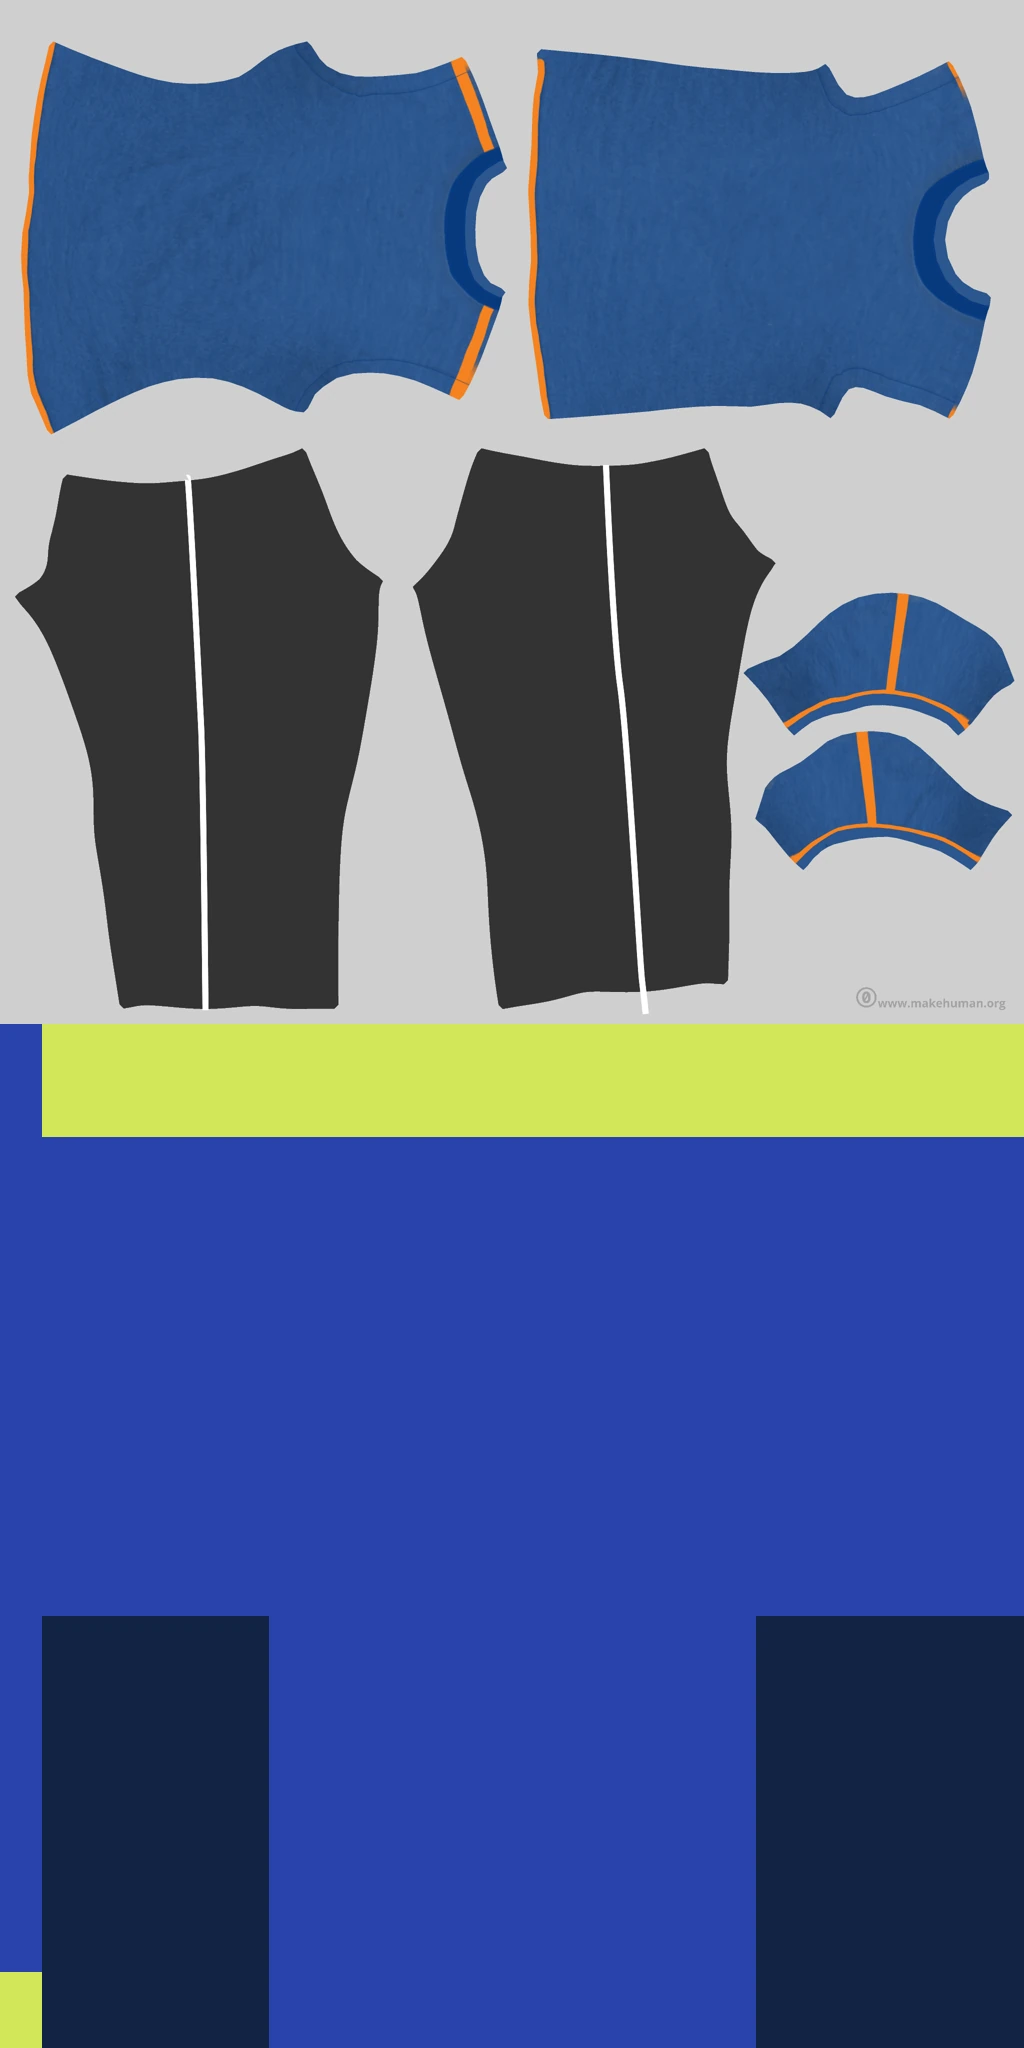
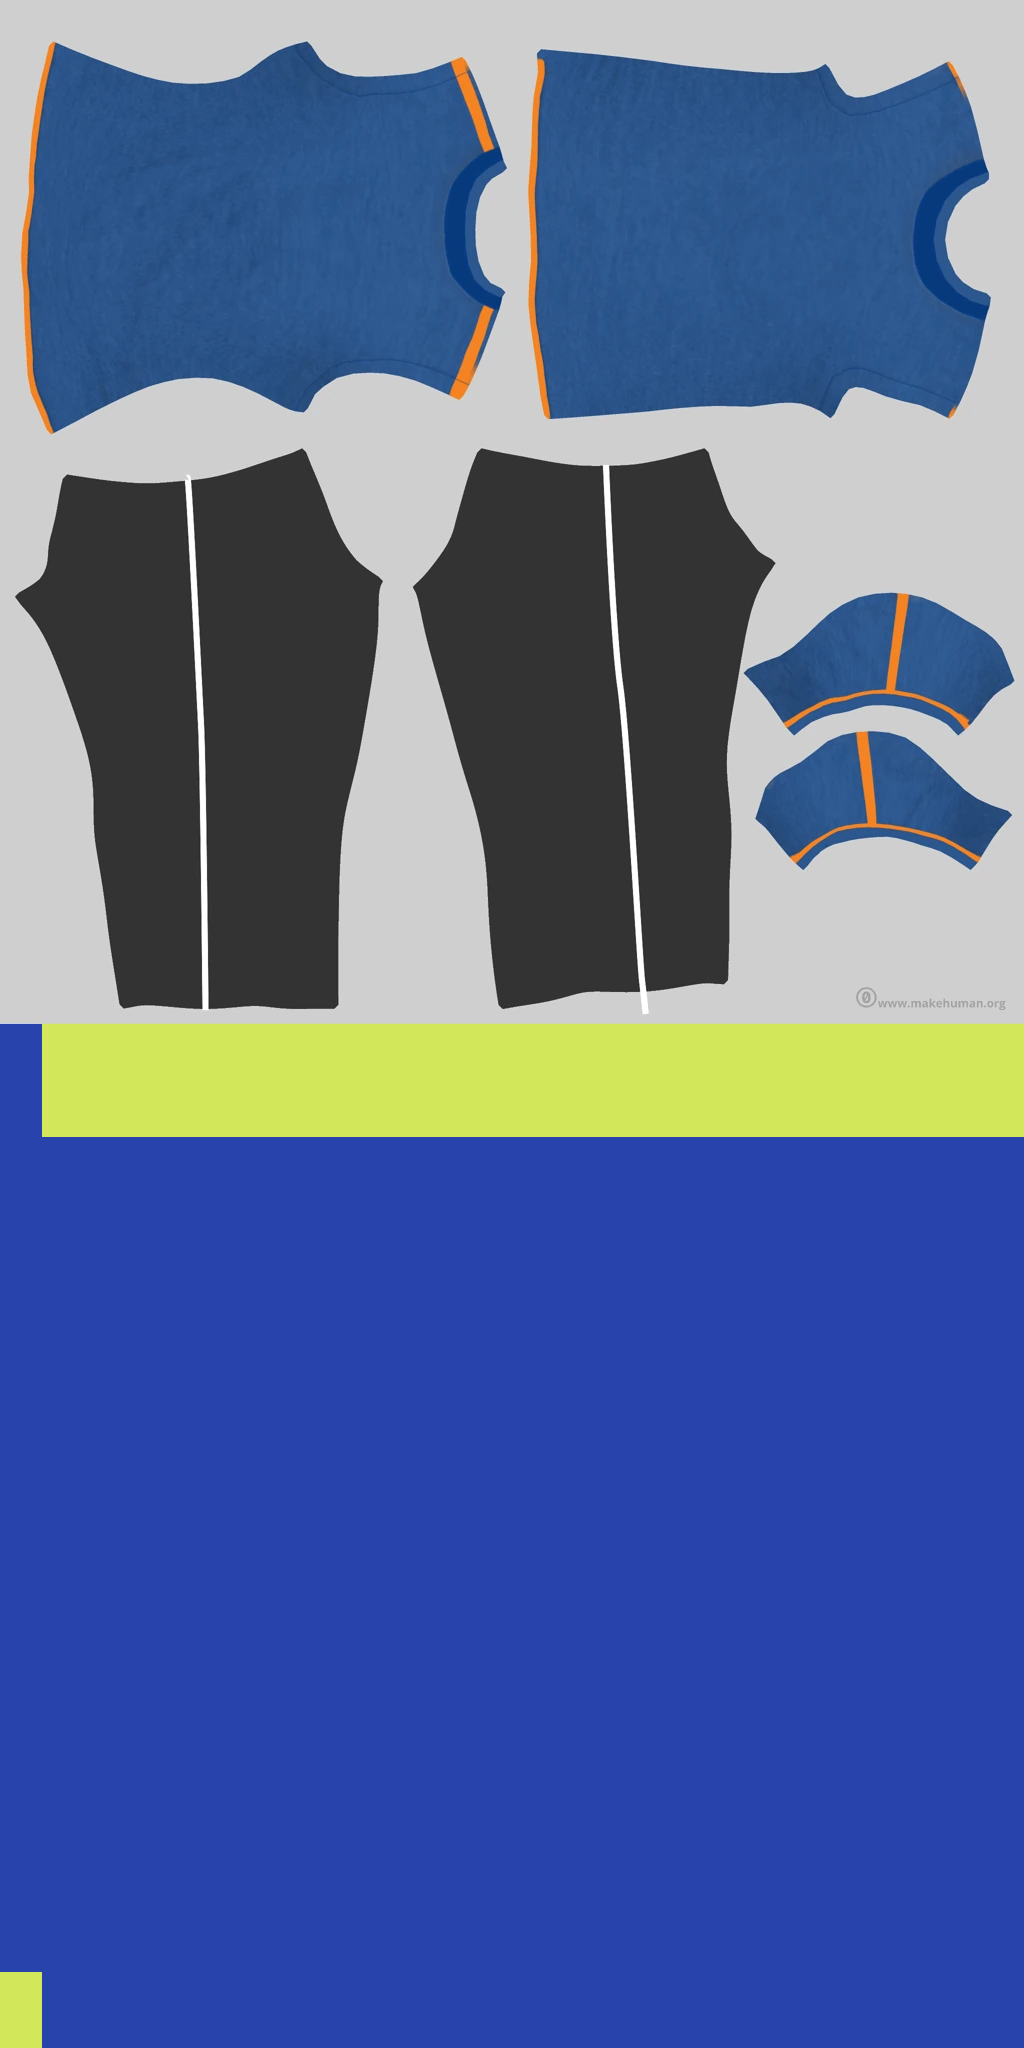
fix(rally-house): clean up the hero shirt palette

Changed region(s): [[0.7188, 0.7812, 1.0, 1.0], [0.0312, 0.7812, 0.2812, 1.0]]

diff --git a/rally-house-source-v16/tools/bake-authored-athlete.py b/rally-house-source-v16/tools/bake-authored-athlete.py
@@ -278,10 +278,10 @@ for name,p in textures.items():
  im=Image.open(p);im.thumbnail((2048,2048) if name=='skin.webp' else (1024,1024));im.save(OUT/name,'WEBP',quality=91,method=6)
 atlas=Image.new('RGB',(1024,2048),(40,67,172));atlas.paste(Image.open(textures['kit.webp']).convert('RGB').resize((1024,1024)),(0,0))
 y,x=np.mgrid[1024:2048,0:1024];height=2.5+((1-y/2048)-.02)/.46*(5.15-2.5);width=np.abs((x/1024-.5)*4)
-cloth=np.full((1024,1024,3),(40,67,172),dtype=np.uint8);cloth[(width>.95)&(height<3.6)]=(18,35,68);cloth[height>4.95]=(210,231,89)
+cloth=np.full((1024,1024,3),(40,67,172),dtype=np.uint8);cloth[height>4.95]=(210,231,89)
 # Sleeve strip maps physical wrist distance, giving both cuffs a continuous edge.
 cloth[:,0:42]=(40,67,172);cloth[(y>1971)&(x<42)]=(210,231,89)
-atlas.paste(Image.fromarray(cloth),(0,1024));atlas.save(OUT/'kit.webp','WEBP',quality=91,method=6)
+atlas.paste(Image.fromarray(cloth),(0,1024));atlas.save(OUT/'kit.webp','WEBP',lossless=True,method=6)
 # Match the body’s neutral neck pigment to the authored head without tinting facial detail.
 body_albedo=np.asarray(Image.open(textures['skin.webp']).convert('RGB').resize((2048,1024)),dtype=float)
 body_albedo=Image.fromarray(np.clip(body_albedo*np.array([1.09,1.025,.95]),0,255).astype('uint8'))

diff --git a/rally-house-source-v16/evidence/hero-kit-20261025/README.md b/rally-house-source-v16/evidence/hero-kit-20261025/README.md
@@ -1,0 +1,13 @@
+# Hero shirt palette
+
+The dark “side” colour was placed by an atlas-space threshold that crossed the front of the fitted shirt. It looked like a blotch or a rendering defect in a close view. The native kit bake now uses a continuous blue shirt while retaining its lime collar and cuffs.
+
+| Before | After |
+| --- | --- |
+| ![Before](before-offline.png) | ![After](after-offline.png) |
+
+Both views use the identical current backhand pose, camera and lighting. They are offline textured CPU-skinned comparisons, not game screenshots; runtime lighting, GPU skirt projection and rigid racket strings/shaft are omitted. The front patch is absent in the after view. Runtime visual preference is pending.
+
+The mesh/rig asset hash is unchanged. The non-shirt atlas region retains exactly the same decoded pixels. The source bake and texture hashes match provenance, the bake compiles, and the source/public release mirrors match. A lossy re-encode changed pixels in the retained atlas region and was rejected; the lossless asset is 171,026 bytes larger with unchanged dimensions and decoded/GPU texture memory. No new motion test was needed because no motion or geometry changed.
+
+Existing sleeve intersections and rigid-looking hair remain. This is a visual cleanup; the broader colleague-send quality bar is unproven.
